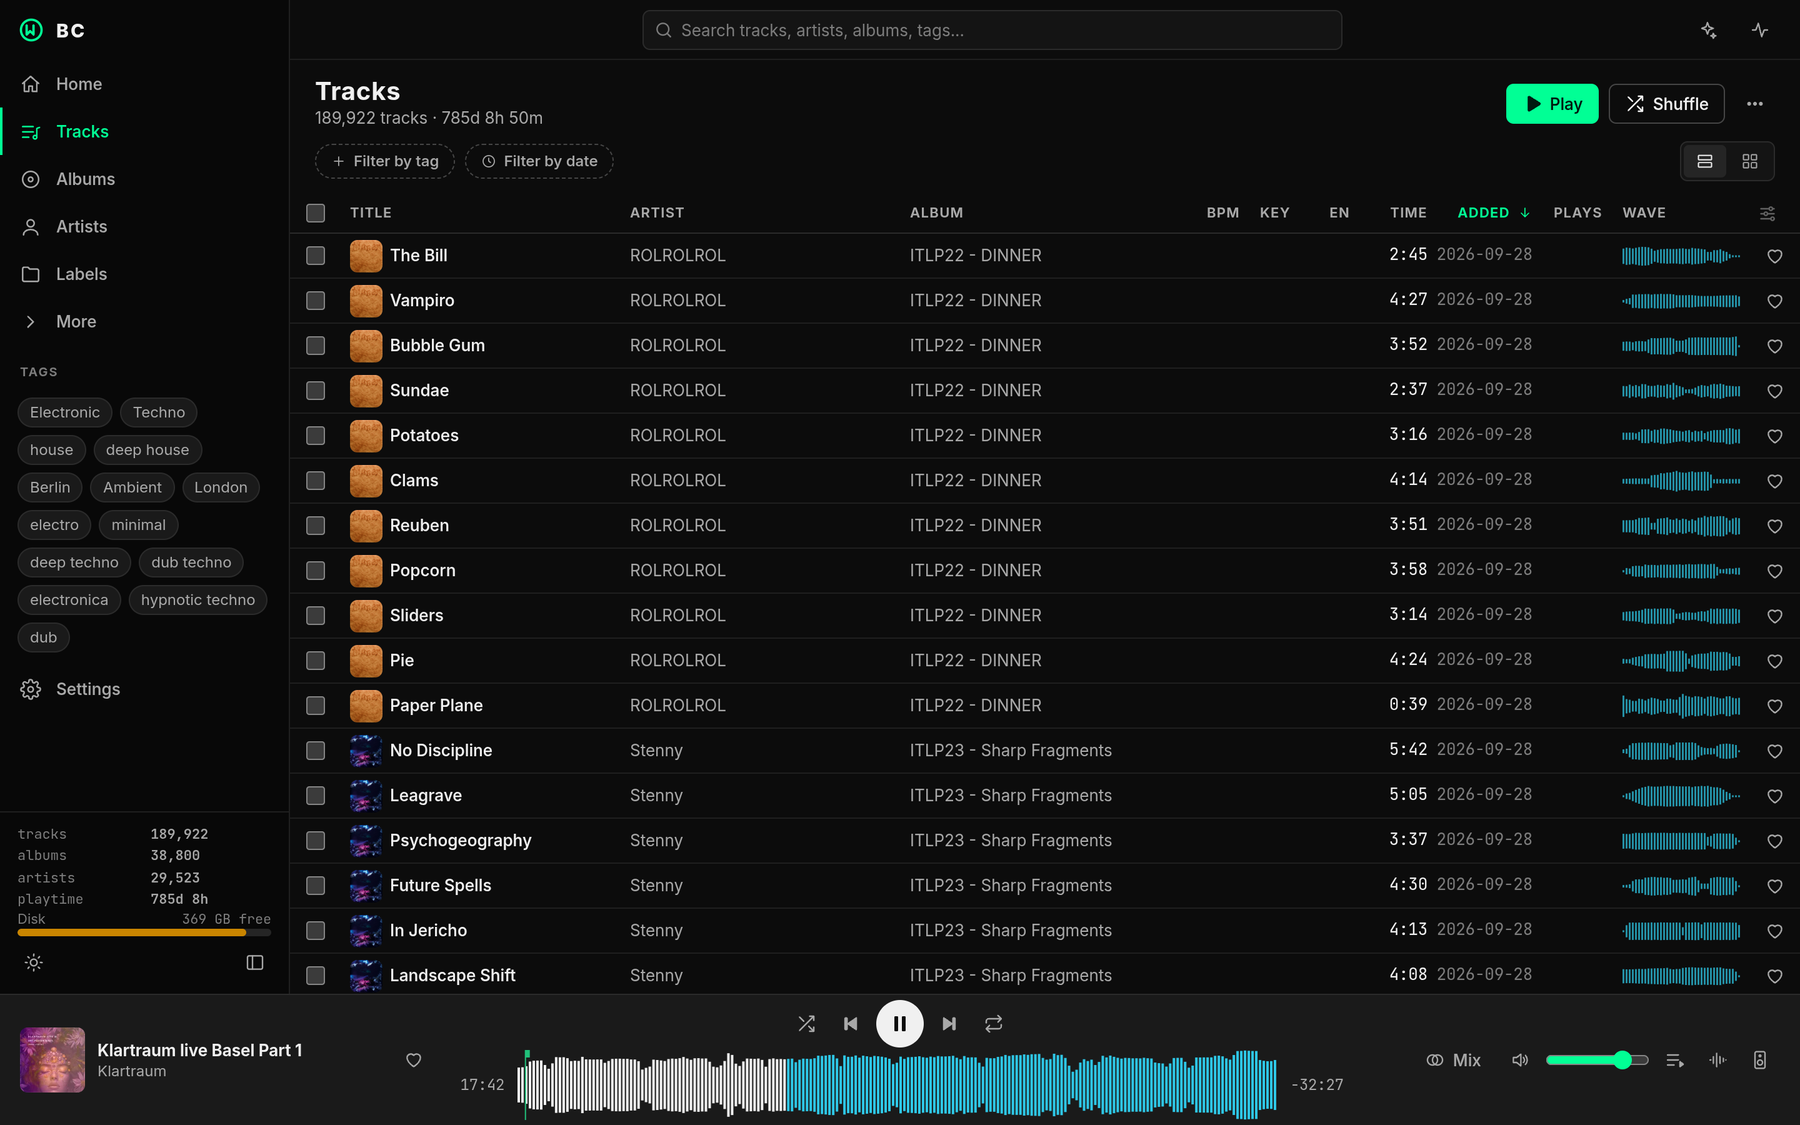
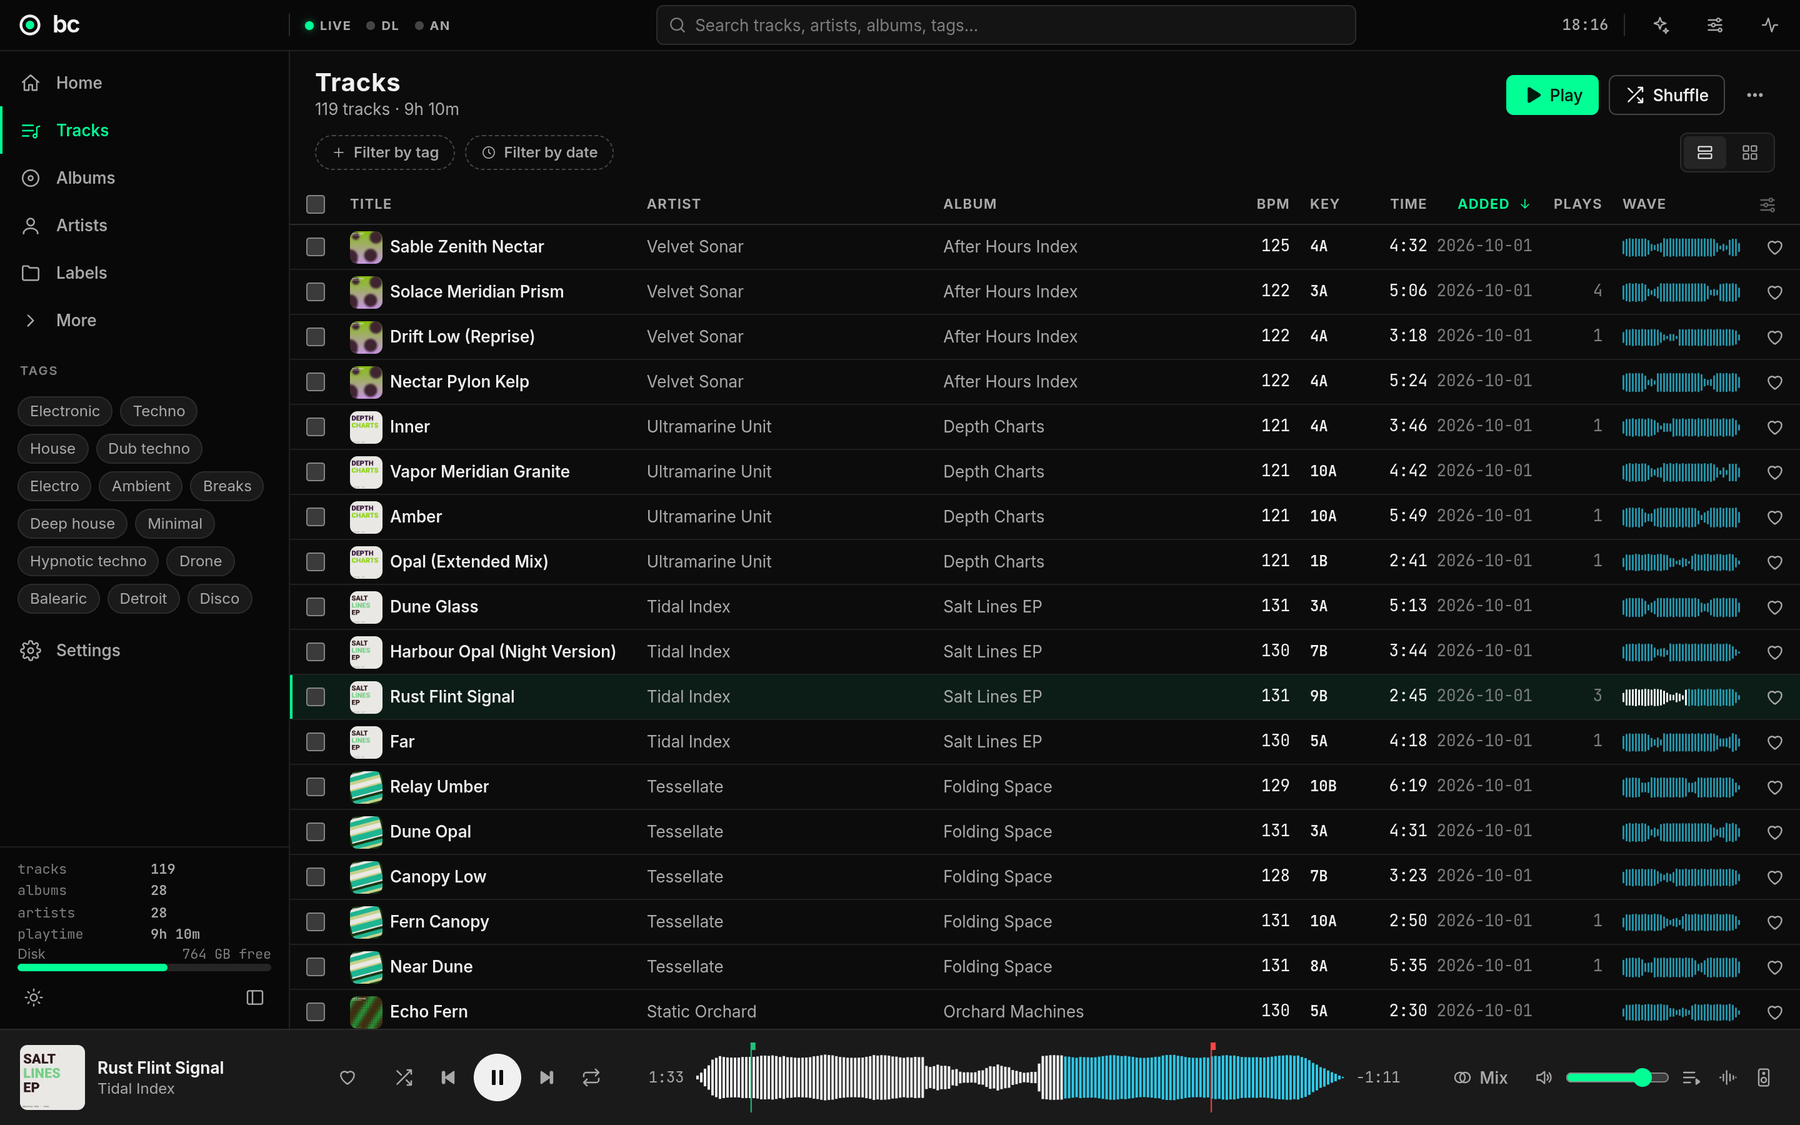
Use a fictional demo library for screenshots, drop library-size framing
Screenshots now show invented artists, labels and covers with synthetic
audio instead of a real collection and machine details. README and site
copy no longer centre on a 190,000-track library.

diff --git a/website/index.html b/website/index.html
@@ -4,7 +4,7 @@
 <meta charset="utf-8">
 <meta name="viewport" content="width=device-width, initial-scale=1">
 <title>bc — bandcamp library &amp; dj tool for linux</title>
-<meta name="description" content="bc is a free, native Rust app for Linux that takes music from Bandcamp discovery to your DJ set: a fast library for 190,000 tracks, Bandcamp explore and downloads, analysis, playlists, automixed DJ sets and a real-time audio engine.">
+<meta name="description" content="bc is a free, native Rust app for Linux that takes music from Bandcamp discovery to your DJ set: a fast library for collections of any size, Bandcamp explore and downloads, analysis, playlists, automixed DJ sets and a real-time audio engine.">
 <meta name="theme-color" content="#F4F3EF" media="(prefers-color-scheme: light)">
 <meta name="theme-color" content="#0C0C0C" media="(prefers-color-scheme: dark)">
 <script>
@@ -54,7 +54,7 @@ try {
 <section class="wrap hero" id="top">
   <span class="label">bandcamp library &amp; dj tool for linux · v0.1.0 · free &amp; open source</span>
   <h1>From the dig<br>to the set.</h1>
-  <p class="lead">Find music on Bandcamp, keep it in a library that stays fast at 190,000 tracks, and mix it into DJ sets — one native app, written in Rust.</p>
+  <p class="lead">Find music on Bandcamp, keep it in a library that stays fast however large it grows, and mix it into DJ sets — one native app, written in Rust.</p>
   <div class="actions">
     <a class="pill pill-signal" href="#install">Install for Linux</a>
     <a class="pill pill-outline" href="https://github.com/birkmann/bc-01">View source</a>
@@ -64,12 +64,12 @@ try {
 <figure class="wrap shot shot-hero">
   <picture>
     <source srcset="assets/img/bc-home.webp" type="image/webp">
-    <img src="assets/img/bc-home.png" width="1360" height="860" alt="The bc home screen: the newest release in the library, latest additions, the all-time Top 10 and the player bar with a waveform.">
+    <img src="assets/img/bc-home.png" width="1800" height="1125" alt="The bc home screen with a demo library: the newest release, latest additions, the all-time Top 10 and the player bar with a waveform.">
   </picture>
 </figure>
 
 <section class="wrap proof" aria-label="Measured results">
-  <div><span class="num">13&nbsp;ms</span><span class="what">for a page of 200 tracks at row 74,000 of 190,000, sorted on the server</span></div>
+  <div><span class="num">13&nbsp;ms</span><span class="what">to fetch a page of tracks from deep in a large library, sorted on the server</span></div>
   <div><span class="num">1.5&nbsp;s</span><span class="what">from launch to a ready library — the Python app it replaces needed 110&nbsp;s</span></div>
   <div><span class="num">0.05&nbsp;ms</span><span class="what">beatmatch phase error, measured through PipeWire on real hardware, 0 xruns</span></div>
   <div><span class="num">kill&nbsp;-9</span><span class="what">a download killed mid-file resumes cleanly — never a truncated or untagged file</span></div>
@@ -78,7 +78,7 @@ try {
 <section class="wrap section" id="features">
   <h2>Everything between the find and the floor.</h2>
   <div class="grid features">
-    <article><span class="idx">01</span><h3>A library without limits</h3><p>Every row of 190,000 tracks, sorted and filtered on the server, full-text search in milliseconds and scrolling at 60&nbsp;fps.</p></article>
+    <article><span class="idx">01</span><h3>A library without limits</h3><p>Every track in one list, sorted and filtered on the server, full-text search in milliseconds and smooth scrolling.</p></article>
     <article><span class="idx">02</span><h3>Bandcamp, built in</h3><p>Search Bandcamp, browse tags and new arrivals, and stream a release before you keep it — without leaving the app.</p></article>
     <article><span class="idx">03</span><h3>Feed &amp; fans</h3><p>Follow artists and labels, walk the collections and wishlists of fans with your taste, and harvest new releases into an inbox.</p></article>
     <article><span class="idx">04</span><h3>Durable downloads</h3><p>A job queue with leases and crash recovery. Files are tagged, synced and renamed atomically, and checked against what you already have.</p></article>
@@ -91,14 +91,14 @@ try {
 
 <section class="wrap section split" id="library">
   <div class="copy">
-    <h2>190,000 tracks. No row cap.</h2>
+    <h2>Your whole collection. No row cap.</h2>
     <p>bc sorts, filters and searches on the server, so the list holds your whole collection — not the first 500 rows. Jump anywhere and the page is there before you notice it loading.</p>
     <p>Waveforms are measured on an absolute <span class="kbd">dB</span> scale, so a quiet master looks quiet, and drawn on the GPU with the playhead at your display's refresh rate.</p>
   </div>
   <figure class="shot shot-detail">
     <picture>
       <source srcset="assets/img/bc-tracks.webp" type="image/webp">
-      <img src="assets/img/bc-tracks.png" width="1800" height="1125" alt="The bc track list: 189,922 tracks with artist, album, time, date added and a waveform per row, tag filters in the sidebar and a playing mix in the player bar." loading="lazy">
+      <img src="assets/img/bc-tracks.png" width="1800" height="1125" alt="The bc track list with a demo library: title, artist, album, BPM, key, time, date added, plays and a waveform per row, with tag filters in the sidebar." loading="lazy">
     </picture>
   </figure>
 </section>
@@ -108,7 +108,7 @@ try {
     <figure class="shot">
       <picture>
         <source srcset="assets/img/bc-explore.webp" type="image/webp">
-        <img src="assets/img/bc-explore.png" width="1440" height="900" alt="Explore in bc: Bandcamp's new electronic arrivals as a grid of covers with filters for genre, sort and location." loading="lazy">
+        <img src="assets/img/bc-explore.png" width="1800" height="1125" alt="Explore in bc: new electronic arrivals as a grid of covers with filters for genre, sort and location (demo content)." loading="lazy">
       </picture>
     </figure>
     <div class="copy">
@@ -131,7 +131,7 @@ try {
   <figure class="shot shot-detail">
     <picture>
       <source srcset="assets/img/bc-sets.webp" type="image/webp">
-      <img src="assets/img/bc-sets.png" width="1440" height="900" alt="The Arrange view of a twelve-track DJ set: clips on two lanes with spectral waveforms, transition markers between them and a set overview strip." loading="lazy">
+      <img src="assets/img/bc-sets.png" width="1800" height="719" alt="The DJ Sets overview: four demo sets with cover mosaics, track counts, length and average BPM." loading="lazy">
     </picture>
   </figure>
 </section>

diff --git a/README.md b/README.md
@@ -9,7 +9,7 @@
 
 bc is a native Linux app that covers the whole path from *found it on
 Bandcamp* to *it's in my DJ set*: discovery and downloads, a music library that
-stays fast at 190,000 tracks, analysis, playlists, beatmatched playback and
+stays fast however large it grows, analysis, playlists, beatmatched playback and
 automixed DJ sets. It is written in Rust from the database to the interface,
 and replaces an earlier Python/React app of the same name.
 
@@ -54,8 +54,8 @@ and replaces an earlier Python/React app of the same name.
 
 ## Performance
 
-Measured on a library of 189,922 tracks, against the Python/React app bc
-replaces (same database, same disk).
+Measured on a large test library, against the Python/React app bc replaces
+(same database, same disk). Smaller libraries are faster still.
 
 | | Previous app | bc |
 |---|---|---|
@@ -64,7 +64,7 @@ replaces (same database, same disk).
 | Track list | 500 rows, sorted in the browser | all rows, sorted on the server |
 | Search (`d`, `dub`, `dub techno`) | 280–520 ms | **25–41 ms** |
 | Scrolling the full list | — | 53–60 fps |
-| Rescan of 190k unchanged files | — | 0.71 s |
+| Rescan of the whole library, nothing changed | — | 0.71 s |
 | Similar tracks, typical / worst seed | 118 / 223 ms | **67 / 194 ms** |
 | Beatmatch phase error (PipeWire, real device) | — | −0.05 ms, 0 xruns |
 
